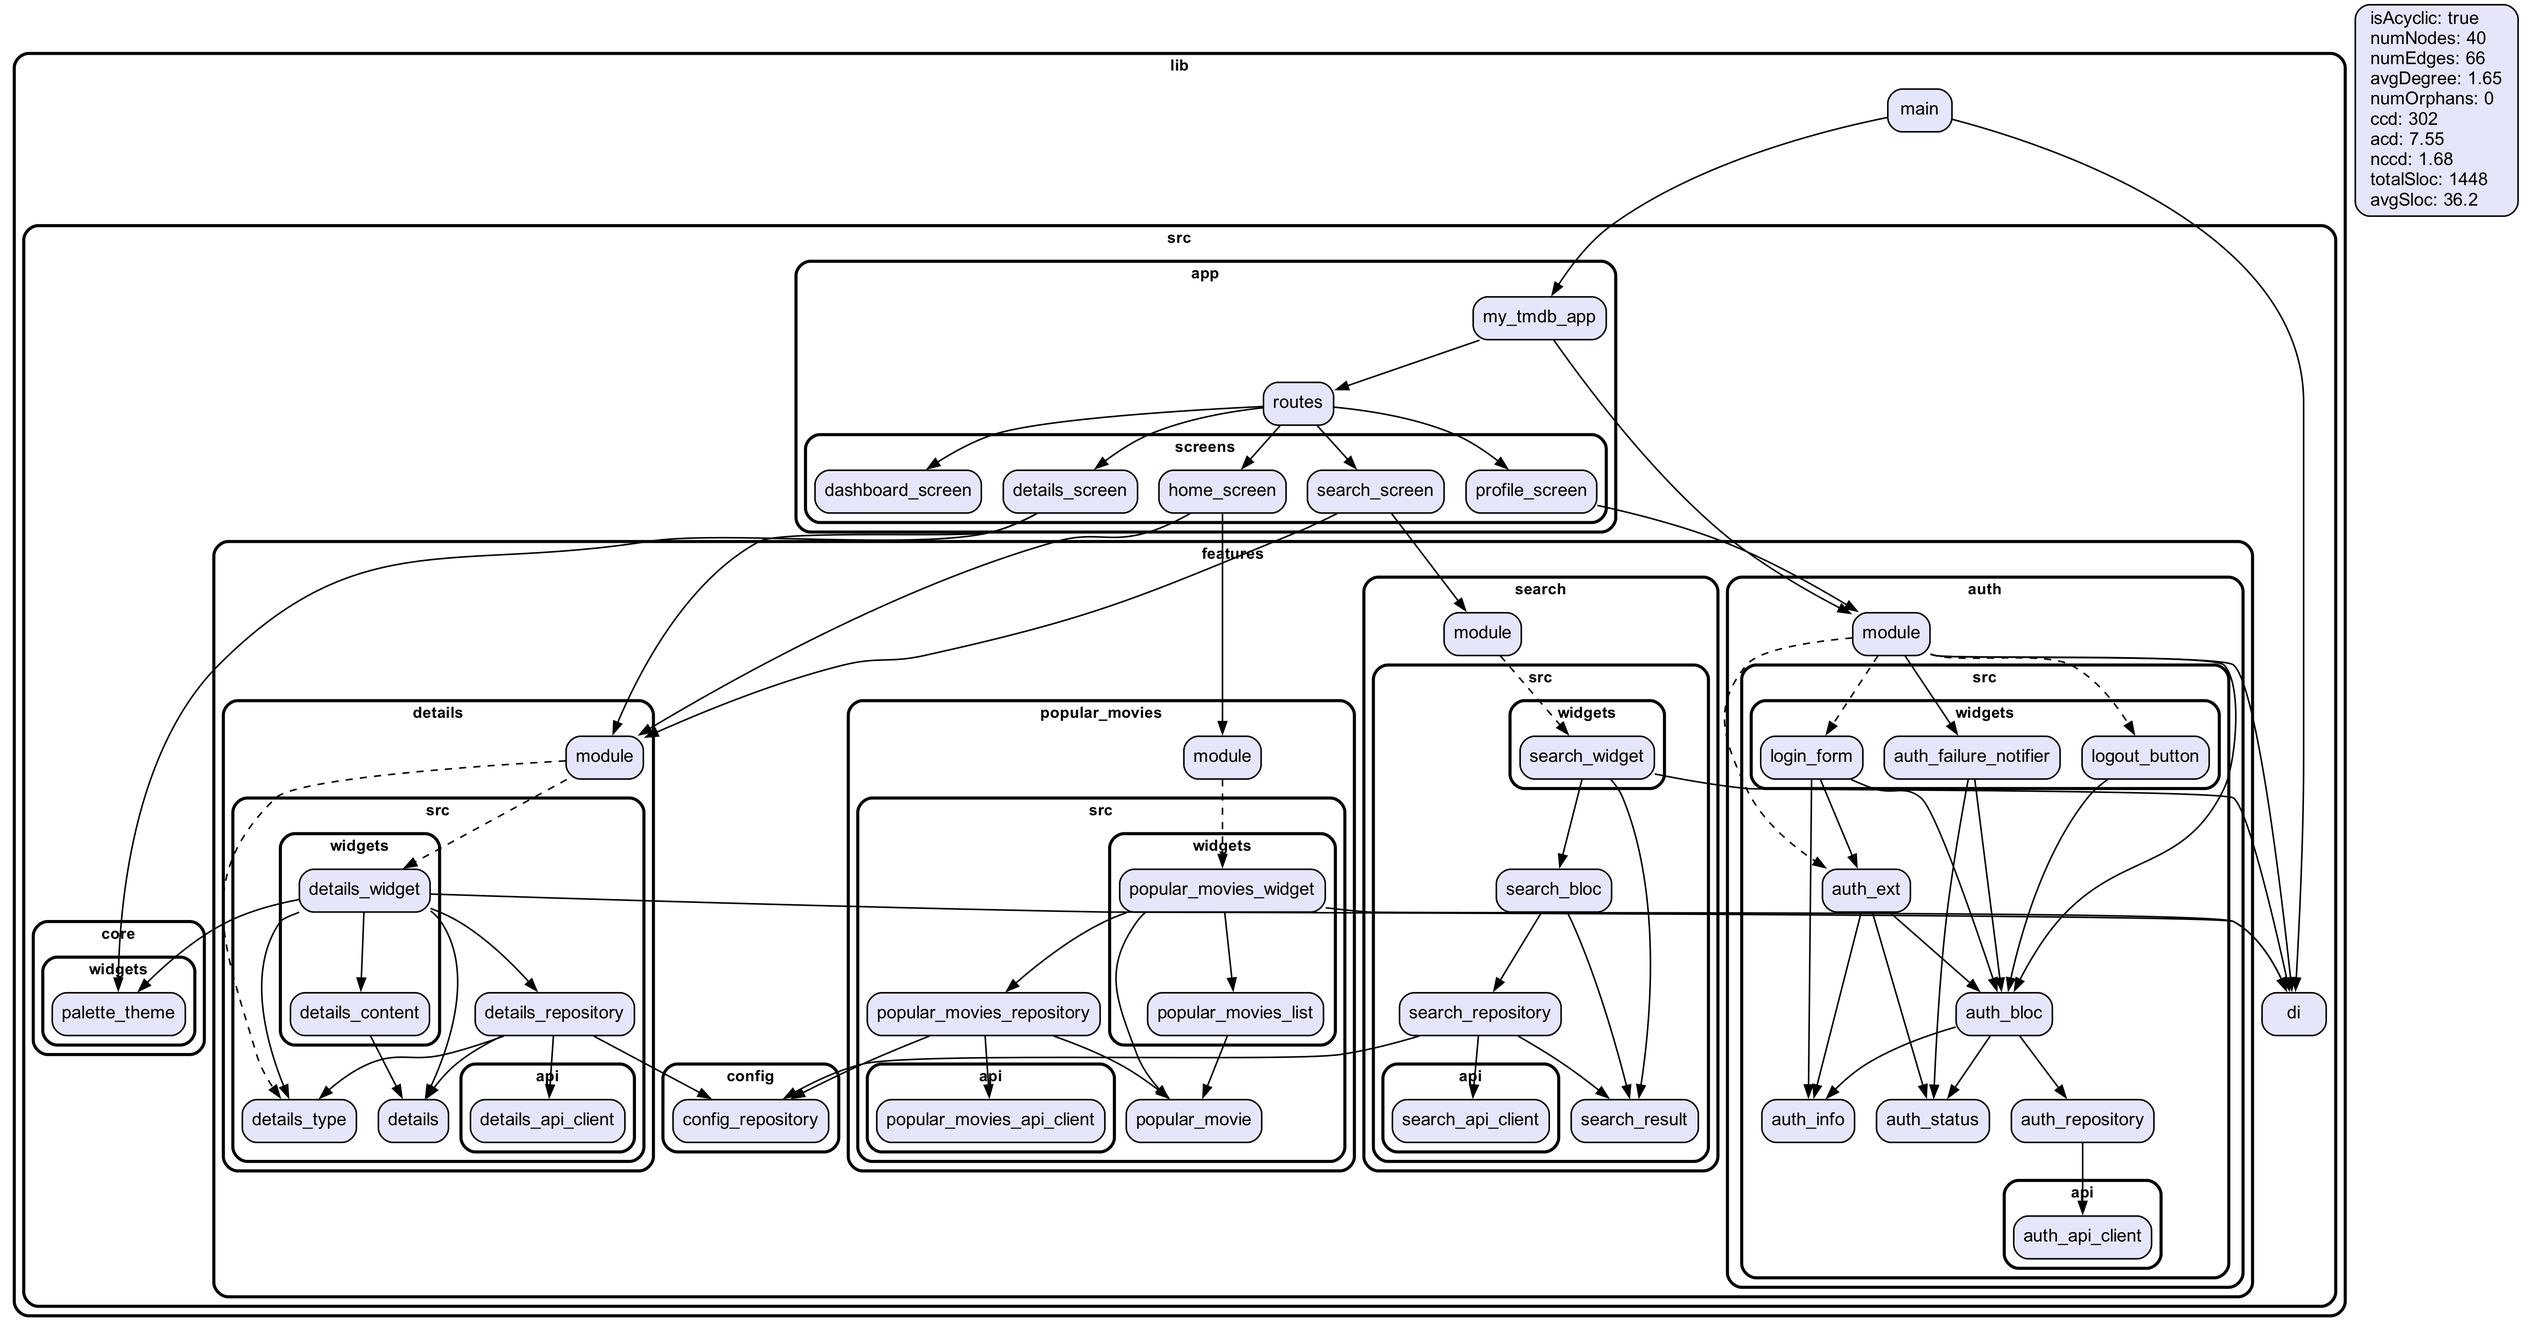
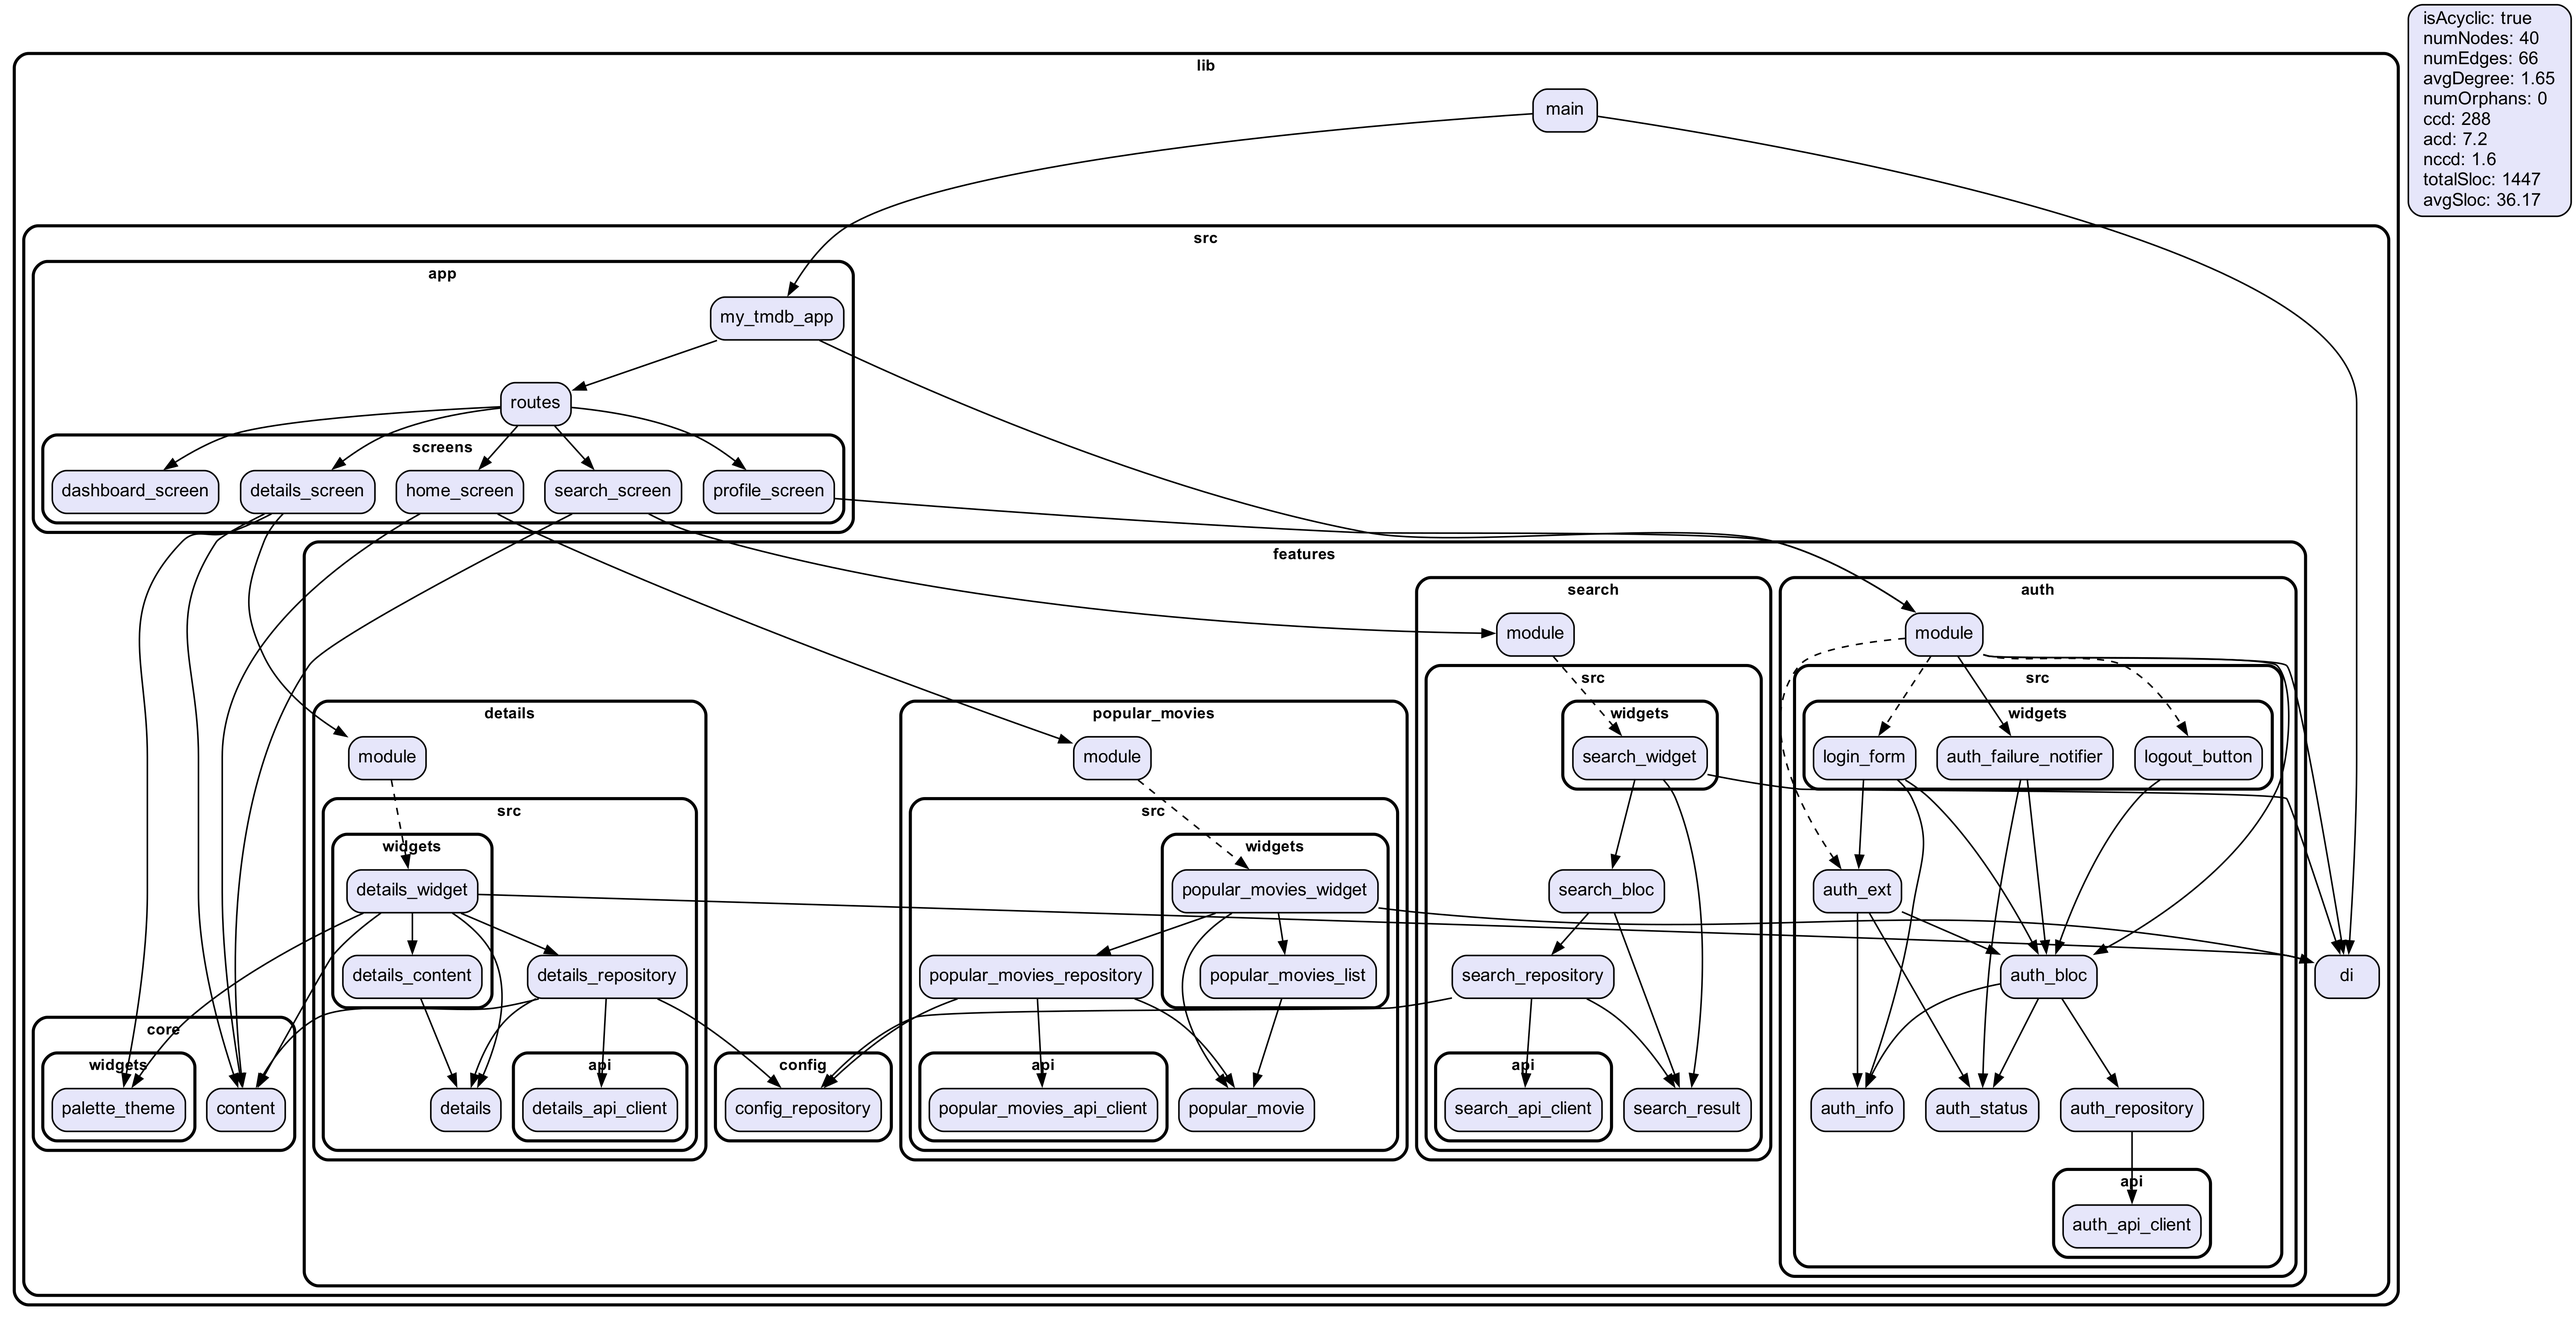
refactor: add ContentId

diff --git a/lib/src/core/content.freezed.dart b/lib/src/core/content.freezed.dart
@@ -1,0 +1,146 @@
+// coverage:ignore-file
+// GENERATED CODE - DO NOT MODIFY BY HAND
+// ignore_for_file: type=lint
+// ignore_for_file: unused_element, deprecated_member_use, deprecated_member_use_from_same_package, use_function_type_syntax_for_parameters, unnecessary_const, avoid_init_to_null, invalid_override_different_default_values_named, prefer_expression_function_bodies, annotate_overrides, invalid_annotation_target
+
+part of 'content.dart';
+
+// **************************************************************************
+// FreezedGenerator
+// **************************************************************************
+
+T _$identity<T>(T value) => value;
+
+final _privateConstructorUsedError = UnsupportedError(
+    'It seems like you constructed your class using `MyClass._()`. This constructor is only meant to be used by freezed and you are not supposed to need it nor use it.\nPlease check the documentation here for more information: https://github.com/rrousselGit/freezed#custom-getters-and-methods');
+
+/// @nodoc
+mixin _$ContentId {
+  int get value => throw _privateConstructorUsedError;
+  ContentType get type => throw _privateConstructorUsedError;
+
+  @JsonKey(ignore: true)
+  $ContentIdCopyWith<ContentId> get copyWith =>
+      throw _privateConstructorUsedError;
+}
+
+/// @nodoc
+abstract class $ContentIdCopyWith<$Res> {
+  factory $ContentIdCopyWith(ContentId value, $Res Function(ContentId) then) =
+      _$ContentIdCopyWithImpl<$Res>;
+  $Res call({int value, ContentType type});
+}
+
+/// @nodoc
+class _$ContentIdCopyWithImpl<$Res> implements $ContentIdCopyWith<$Res> {
+  _$ContentIdCopyWithImpl(this._value, this._then);
+
+  final ContentId _value;
+  // ignore: unused_field
+  final $Res Function(ContentId) _then;
+
+  @override
+  $Res call({
+    Object? value = freezed,
+    Object? type = freezed,
+  }) {
+    return _then(_value.copyWith(
+      value: value == freezed
+          ? _value.value
+          : value // ignore: cast_nullable_to_non_nullable
+              as int,
+      type: type == freezed
+          ? _value.type
+          : type // ignore: cast_nullable_to_non_nullable
+              as ContentType,
+    ));
+  }
+}
+
+/// @nodoc
+abstract class _$$_ContentIdCopyWith<$Res> implements $ContentIdCopyWith<$Res> {
+  factory _$$_ContentIdCopyWith(
+          _$_ContentId value, $Res Function(_$_ContentId) then) =
+      __$$_ContentIdCopyWithImpl<$Res>;
+  @override
+  $Res call({int value, ContentType type});
+}
+
+/// @nodoc
+class __$$_ContentIdCopyWithImpl<$Res> extends _$ContentIdCopyWithImpl<$Res>
+    implements _$$_ContentIdCopyWith<$Res> {
+  __$$_ContentIdCopyWithImpl(
+      _$_ContentId _value, $Res Function(_$_ContentId) _then)
+      : super(_value, (v) => _then(v as _$_ContentId));
+
+  @override
+  _$_ContentId get _value => super._value as _$_ContentId;
+
+  @override
+  $Res call({
+    Object? value = freezed,
+    Object? type = freezed,
+  }) {
+    return _then(_$_ContentId(
+      value: value == freezed
+          ? _value.value
+          : value // ignore: cast_nullable_to_non_nullable
+              as int,
+      type: type == freezed
+          ? _value.type
+          : type // ignore: cast_nullable_to_non_nullable
+              as ContentType,
+    ));
+  }
+}
+
+/// @nodoc
+
+class _$_ContentId implements _ContentId {
+  const _$_ContentId({required this.value, required this.type});
+
+  @override
+  final int value;
+  @override
+  final ContentType type;
+
+  @override
+  String toString() {
+    return 'ContentId(value: $value, type: $type)';
+  }
+
+  @override
+  bool operator ==(dynamic other) {
+    return identical(this, other) ||
+        (other.runtimeType == runtimeType &&
+            other is _$_ContentId &&
+            const DeepCollectionEquality().equals(other.value, value) &&
+            const DeepCollectionEquality().equals(other.type, type));
+  }
+
+  @override
+  int get hashCode => Object.hash(
+      runtimeType,
+      const DeepCollectionEquality().hash(value),
+      const DeepCollectionEquality().hash(type));
+
+  @JsonKey(ignore: true)
+  @override
+  _$$_ContentIdCopyWith<_$_ContentId> get copyWith =>
+      __$$_ContentIdCopyWithImpl<_$_ContentId>(this, _$identity);
+}
+
+abstract class _ContentId implements ContentId {
+  const factory _ContentId(
+      {required final int value,
+      required final ContentType type}) = _$_ContentId;
+
+  @override
+  int get value;
+  @override
+  ContentType get type;
+  @override
+  @JsonKey(ignore: true)
+  _$$_ContentIdCopyWith<_$_ContentId> get copyWith =>
+      throw _privateConstructorUsedError;
+}

diff --git a/lib/src/app/routes.gr.dart b/lib/src/app/routes.gr.dart
@@ -14,7 +14,7 @@
 import 'package:auto_route/auto_route.dart' as _i6;
 import 'package:flutter/material.dart' as _i7;
 
-import '../features/details/module.dart' as _i8;
+import '../core/content.dart' as _i8;
 import 'screens/dashboard_screen.dart' as _i1;
 import 'screens/details_screen.dart' as _i2;
 import 'screens/home_screen.dart' as _i3;
@@ -40,7 +40,6 @@ class AppRouter extends _i6.RootStackRouter {
         child: _i2.DetailsScreen(
           key: args.key,
           id: args.id,
-          detailsType: args.detailsType,
           initialTitle: args.initialTitle,
         ),
       );
@@ -113,8 +112,7 @@ class DashboardRoute extends _i6.PageRouteInfo<void> {
 class DetailsRoute extends _i6.PageRouteInfo<DetailsRouteArgs> {
   DetailsRoute({
     _i7.Key? key,
-    required int id,
-    required _i8.DetailsType detailsType,
+    required _i8.ContentId id,
     String initialTitle = '',
   }) : super(
           DetailsRoute.name,
@@ -122,7 +120,6 @@ class DetailsRoute extends _i6.PageRouteInfo<DetailsRouteArgs> {
           args: DetailsRouteArgs(
             key: key,
             id: id,
-            detailsType: detailsType,
             initialTitle: initialTitle,
           ),
         );
@@ -134,21 +131,18 @@ class DetailsRouteArgs {
   const DetailsRouteArgs({
     this.key,
     required this.id,
-    required this.detailsType,
     this.initialTitle = '',
   });
 
   final _i7.Key? key;
 
-  final int id;
-
-  final _i8.DetailsType detailsType;
+  final _i8.ContentId id;
 
   final String initialTitle;
 
   @override
   String toString() {
-    return 'DetailsRouteArgs{key: $key, id: $id, detailsType: $detailsType, initialTitle: $initialTitle}';
+    return 'DetailsRouteArgs{key: $key, id: $id, initialTitle: $initialTitle}';
   }
 }
 

diff --git a/lib/src/features/details/src/details_repository.dart b/lib/src/features/details/src/details_repository.dart
@@ -1,10 +1,10 @@
 import 'package:dfunc/dfunc.dart';
 import 'package:injectable/injectable.dart';
 
+import '../../../core/content.dart';
 import '../../config/config_repository.dart';
 import 'api/details_api_client.dart';
 import 'details.dart';
-import 'details_type.dart';
 
 @lazySingleton
 class DetailsRepository {
@@ -20,21 +20,18 @@ class DetailsRepository {
   final String _apiKey;
   final ConfigRepository _configRepository;
 
-  AsyncResult<Details> fetchDetails(
-    int id, {
-    required DetailsType type,
-  }) async {
+  AsyncResult<Details> fetchDetails(ContentId id) async {
     final baseImageUrl = await _configRepository.getBaseImageUrl();
 
-    switch (type) {
-      case DetailsType.movie:
+    switch (id.type) {
+      case ContentType.movie:
         return _apiClient
-            .getMovieDetails(apiKey: _apiKey, id: id)
+            .getMovieDetails(apiKey: _apiKey, id: id.value)
             .then((dto) => dto.toModel(baseImageUrl: baseImageUrl))
             .toResult();
-      case DetailsType.tv:
+      case ContentType.tv:
         return _apiClient
-            .getTvDetails(apiKey: _apiKey, id: id)
+            .getTvDetails(apiKey: _apiKey, id: id.value)
             .then((dto) => dto.toModel(baseImageUrl: baseImageUrl))
             .toResult();
     }

diff --git a/lib/src/features/details/src/widgets/details_widget.dart b/lib/src/features/details/src/widgets/details_widget.dart
@@ -2,23 +2,21 @@ import 'package:dfunc/dfunc.dart';
 import 'package:flutter/material.dart';
 import 'package:provider/provider.dart';
 
+import '../../../../core/content.dart';
 import '../../../../core/widgets/palette_theme.dart';
 import '../../../../di.dart';
 import '../details.dart';
 import '../details_repository.dart';
-import '../details_type.dart';
 import 'details_content.dart';
 
 class DetailsWidget extends StatefulWidget {
   const DetailsWidget({
     super.key,
     required this.id,
-    required this.detailsType,
     this.initialTitle = '',
   });
 
-  final int id;
-  final DetailsType detailsType;
+  final ContentId id;
   final String initialTitle;
 
   @override
@@ -26,10 +24,7 @@ class DetailsWidget extends StatefulWidget {
 }
 
 class _DetailsWidgetState extends State<DetailsWidget> {
-  late final _result = sl<DetailsRepository>().fetchDetails(
-    widget.id,
-    type: widget.detailsType,
-  );
+  late final _result = sl<DetailsRepository>().fetchDetails(widget.id);
 
   @override
   void initState() {

diff --git a/lib/src/app/screens/search_screen.dart b/lib/src/app/screens/search_screen.dart
@@ -2,7 +2,7 @@ import 'package:auto_route/auto_route.dart';
 import 'package:dfunc/dfunc.dart';
 import 'package:flutter/material.dart';
 
-import '../../features/details/module.dart';
+import '../../core/content.dart';
 import '../../features/search/module.dart';
 import '../routes.gr.dart';
 
@@ -15,10 +15,12 @@ class SearchScreen extends StatelessWidget {
         body: SearchWidget(
           onItemPressed: (item) => context.router.navigate(
             DetailsRoute(
-              id: item.id,
-              detailsType: item.map(
-                movie: always(DetailsType.movie),
-                tvShow: always(DetailsType.tv),
+              id: ContentId(
+                value: item.id,
+                type: item.map(
+                  movie: always(ContentType.movie),
+                  tvShow: always(ContentType.tv),
+                ),
               ),
               initialTitle: item.title,
             ),

diff --git a/lib/src/app/screens/details_screen.dart b/lib/src/app/screens/details_screen.dart
@@ -1,5 +1,6 @@
 import 'package:flutter/material.dart';
 
+import '../../core/content.dart';
 import '../../core/widgets/palette_theme.dart';
 import '../../features/details/module.dart';
 
@@ -7,12 +8,10 @@ class DetailsScreen extends StatelessWidget {
   const DetailsScreen({
     super.key,
     required this.id,
-    required this.detailsType,
     this.initialTitle = '',
   });
 
-  final int id;
-  final DetailsType detailsType;
+  final ContentId id;
   final String initialTitle;
 
   @override
@@ -20,7 +19,6 @@ class DetailsScreen extends StatelessWidget {
         child: Scaffold(
           body: DetailsWidget(
             id: id,
-            detailsType: detailsType,
             initialTitle: initialTitle,
           ),
         ),

diff --git a/lib/src/app/screens/home_screen.dart b/lib/src/app/screens/home_screen.dart
@@ -1,7 +1,7 @@
 import 'package:auto_route/auto_route.dart';
 import 'package:flutter/material.dart';
 
-import '../../features/details/module.dart';
+import '../../core/content.dart';
 import '../../features/popular_movies/module.dart';
 import '../routes.gr.dart';
 
@@ -16,8 +16,7 @@ class HomeScreen extends StatelessWidget {
             PopularMoviesWidget(
               onItemPressed: (movie) => context.router.navigate(
                 DetailsRoute(
-                  id: movie.id,
-                  detailsType: DetailsType.movie,
+                  id: ContentId(type: ContentType.movie, value: movie.id),
                   initialTitle: movie.title,
                 ),
               ),

diff --git a/lib/src/core/content.dart b/lib/src/core/content.dart
@@ -1,0 +1,13 @@
+import 'package:freezed_annotation/freezed_annotation.dart';
+
+part 'content.freezed.dart';
+
+enum ContentType { movie, tv }
+
+@freezed
+class ContentId with _$ContentId {
+  const factory ContentId({
+    required int value,
+    required ContentType type,
+  }) = _ContentId;
+}

diff --git a/lib/src/features/details/module.dart b/lib/src/features/details/module.dart
@@ -1,2 +1,1 @@
-export 'src/details_type.dart';
 export 'src/widgets/details_widget.dart';
